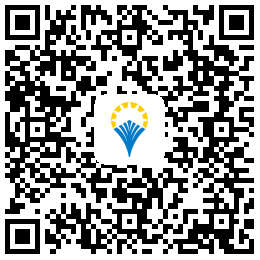
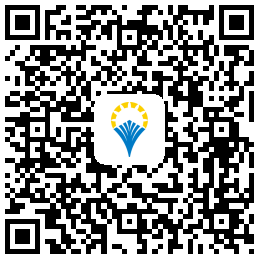
backup

diff --git a/src/components/FooterLink/Download.vue b/src/components/FooterLink/Download.vue
@@ -19,7 +19,7 @@
           </section>
           <section >
             <img src="/static/img/home/download-andriod.png" >
-            <a href="https://www.ifoodschain.com/download/android/suprobe-android-V1.0.4.apk" >
+            <a href="https://www.ifoodschain.com/download/android/suprobe-android-V1.0.6.apk" >
                 <i class="icon iconfont">&#xe68d;</i>
                 <span>Andriod</span>
               </a>
